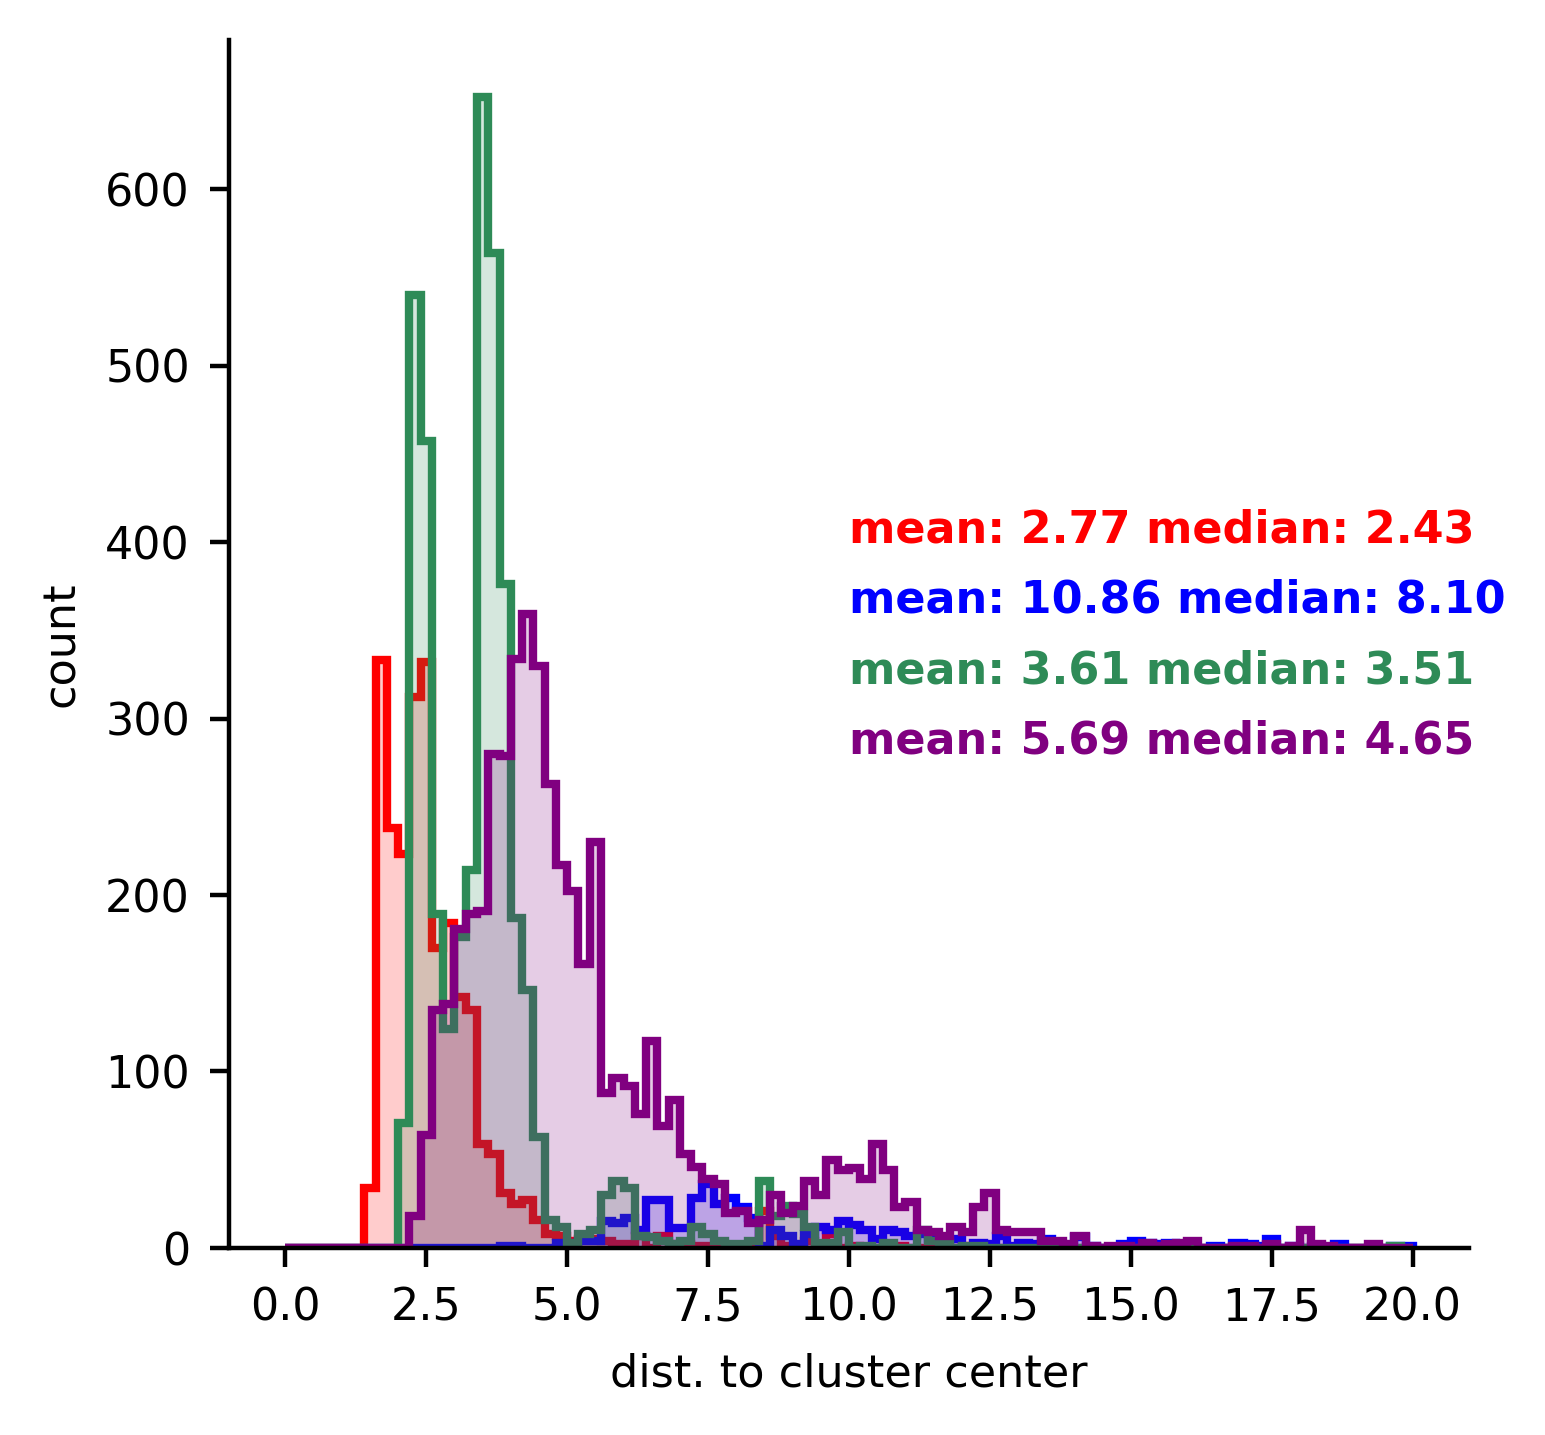
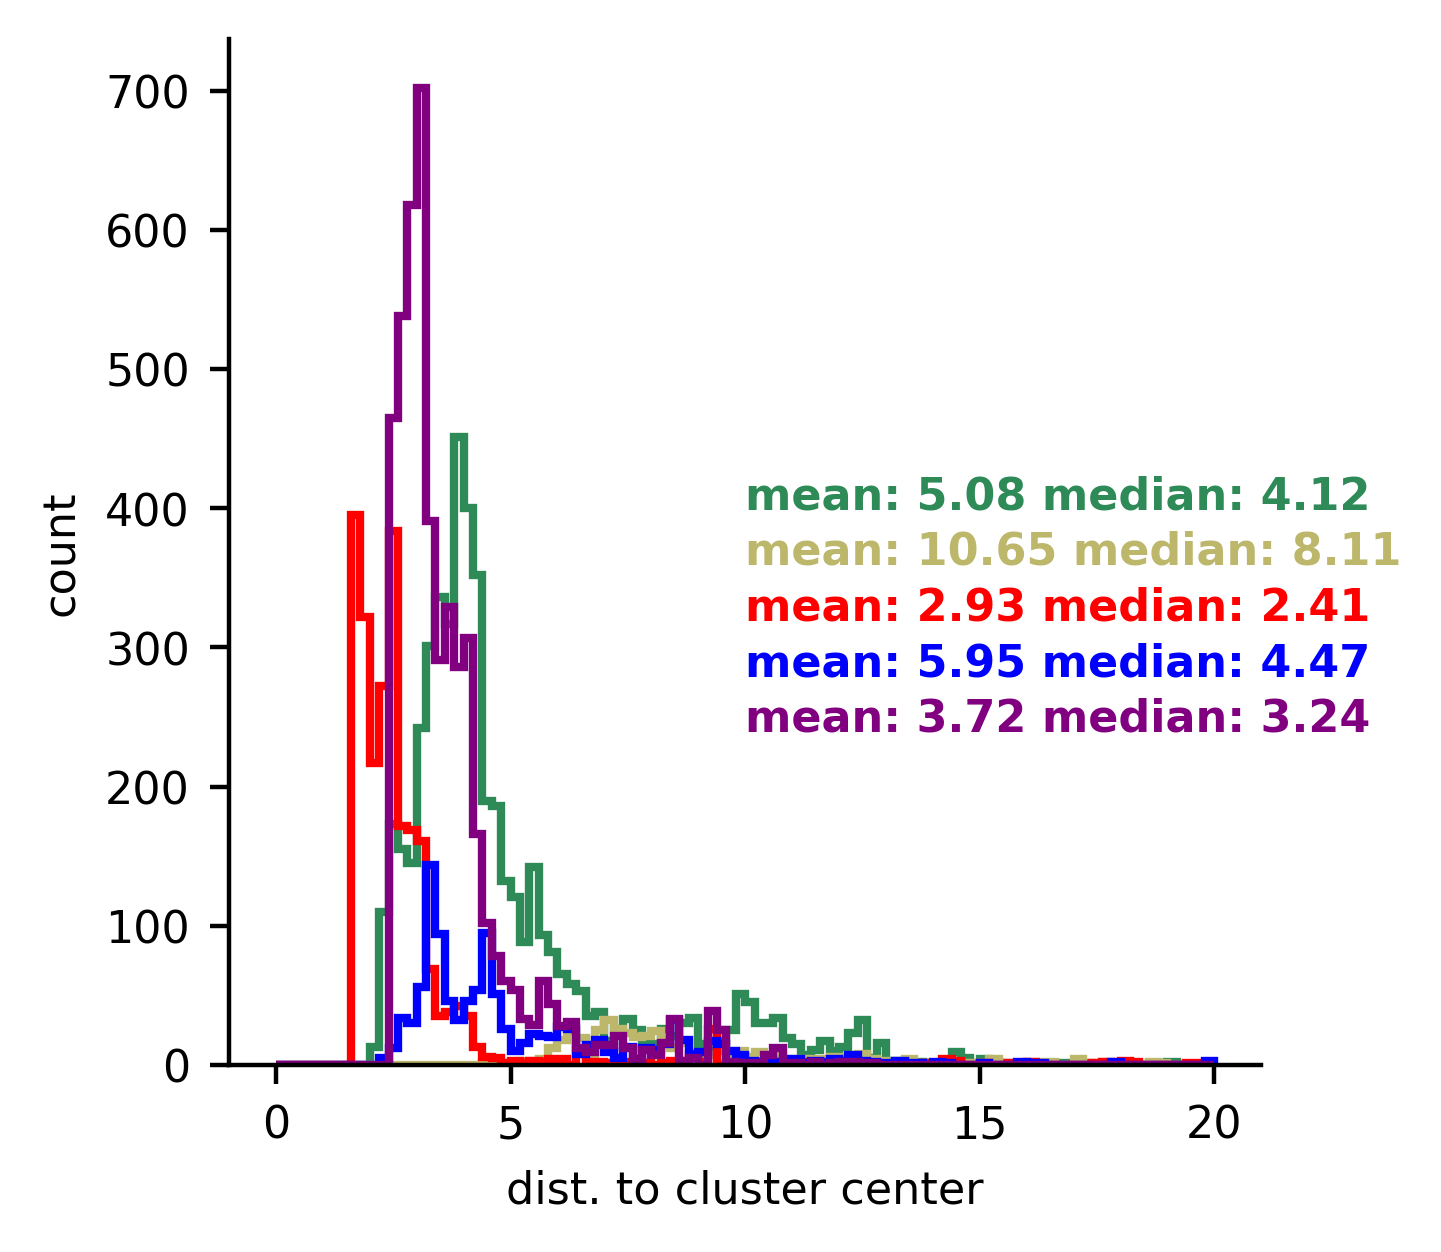
did some clustering analysis

Changed region(s): [[0.0312, 0.0312, 0.9368, 0.9657], [0.4997, 0.3427, 0.9681, 0.5919]]

diff --git a/analysis/clustering_analysis.py b/analysis/clustering_analysis.py
@@ -1,0 +1,231 @@
+#!/Library/Frameworks/Python.framework/Versions/3.8/bin/python3
+#!/usr/local/Cellar/python@3.9/3.9.1_6/bin/python3
+from numpy import array, arange, median, mean, abs
+from numpy.linalg import norm
+from pickle import load
+from matplotlib import pyplot as plt
+from matplotlib import rcParams
+from sklearn.decomposition import PCA
+
+from C3SData.data import C3SD
+
+rcParams['font.size'] = 8
+
+
+# load the trained predictive model (to use its internal KMeans classifier)
+with open('kmcm_svr_final_20210414.pickle', 'rb') as pf:
+    kmc = load(pf)
+
+
+# load the dataset
+data = C3SD('C3S.db', seed=2345)
+data.featurize()
+data.train_test_split('ccs')
+data.center_and_scale()
+
+
+# compute cluster assignments and distances
+X_clusters = array([kmc.kmeans_.predict(x.reshape(1, -1))[0] for x in data.SScaler_.transform(data.X_)])
+print('number of compounds in each cluster:', [len([l for l in kmc.kmeans_.labels_ if l == n]) for n in range(5)])
+
+
+# compute cluster distance distributions
+cluster_dists = [[], [], [], [], []]
+cluster_dists_combined = []
+for c, x in zip(X_clusters, data.SScaler_.transform(data.X_)):
+    cluster_dists[c].append(norm(x - kmc.kmeans_.cluster_centers_[c]))
+    cluster_dists_combined.append(norm(x - kmc.kmeans_.cluster_centers_[c]))
+cluster_dists_combined = array(cluster_dists_combined)
+fig = plt.figure(figsize=(3.33, 3.33))
+ax = fig.add_subplot(111)
+bins = arange(0, 20.001, 0.2)
+y0 = 400
+for cd, c in zip(cluster_dists, ['seagreen', 'darkkhaki', 'r', 'b', 'purple']):
+    #plt.hist(cd, bins=bins, histtype='stepfilled', color=c, alpha=0.2)
+    ax.hist(cd, bins=bins, histtype='step', color=c, lw=1.5)
+    ax.text(10, y0, 'mean: {:.2f} median: {:.2f}'.format(mean(cd), median(cd)), fontweight='bold', fontsize=8, color=c)
+    y0 -= 40
+for d in ['top', 'right']:
+    ax.spines[d].set_visible(False)
+ax.set_xlabel('dist. to cluster center')
+ax.set_ylabel('count')
+plt.savefig('cluster_distance_distributions.png', dpi=400, bbox_inches='tight')
+plt.close()
+
+
+# plot cluster center distance against prediction error
+X_scaled = data.SScaler_.transform(data.X_)
+y_true = data.y_
+percent_error = abs(100. * (kmc.predict(X_scaled) - y_true) / y_true)
+fig = plt.figure(figsize=(3.33, 3.33))
+ax = fig.add_subplot(111)
+ax.scatter(cluster_dists_combined, percent_error, s=0.5, alpha=0.2, c='k', edgecolors='none')
+for d in ['top', 'right']:
+    ax.spines[d].set_visible(False)
+ax.set_ylim([-0.05, 10])
+ax.set_yticks([_ for _ in range(11)])
+ax.set_xlim([0, 30])
+ax.set_xlabel('dist. to cluster center')
+ax.set_ylabel('abs. prediction error (%)')
+plt.savefig('cluster_distance_vs_error.png', dpi=400, bbox_inches='tight')
+plt.close()
+
+# plot cluster center distance against prediction error (normalize distances by individual cluster medians)
+dist_medians = array([[4.12, 8.11, 2.41, 4.47, 3.24][_] for _ in kmc.kmeans_.predict(X_scaled)])
+fig = plt.figure(figsize=(3.33, 3.33))
+ax = fig.add_subplot(111)
+ax.scatter(cluster_dists_combined / dist_medians, percent_error, s=0.5, alpha=0.2, c='k', edgecolors='none')
+for d in ['top', 'right']:
+    ax.spines[d].set_visible(False)
+ax.set_ylim([-0.05, 10])
+ax.set_yticks([_ for _ in range(11)])
+ax.set_xlim([0, 5])
+ax.set_xlabel('dist. to cluster center (normalized)')
+ax.set_ylabel('abs. prediction error (%)')
+plt.savefig('cluster_distance_vs_error_normalized.png', dpi=400, bbox_inches='tight')
+plt.close()
+
+
+# plot distance from database center against prediction error
+center = array([mean(_) for _ in X_scaled.T])
+center_dists = array([norm(_ - center) for _ in X_scaled])
+fig = plt.figure(figsize=(3.33, 3.33))
+ax = fig.add_subplot(111)
+ax.scatter(center_dists, percent_error, s=0.5, alpha=0.2, c='k', edgecolors='none')
+for d in ['top', 'right']:
+    ax.spines[d].set_visible(False)
+ax.set_ylim([-0.05, 10])
+ax.set_yticks([_ for _ in range(11)])
+ax.set_xlim([0, 20])
+ax.set_xlabel('dist. to center')
+ax.set_ylabel('abs. prediction error (%)')
+plt.savefig('center_distance_vs_error.png', dpi=400, bbox_inches='tight')
+plt.close()
+
+
+# cluster distance matrix
+dmat = [[0, 0, 0, 0, 0], [0, 0, 0, 0, 0], [0, 0, 0, 0, 0], [0, 0, 0, 0, 0], [0, 0, 0, 0, 0]]
+for i in range(5):
+    for j in range(5):
+        dmat[i][j] = norm(kmc.kmeans_.cluster_centers_[i] - kmc.kmeans_.cluster_centers_[j])
+print('     c0    c1    c2    c3    c4')
+print('c0 {:4.1f}  {:4.1f}  {:4.1f}  {:4.1f}  {:4.1f}'.format(dmat[0][0], dmat[0][1], dmat[0][2], dmat[0][3], dmat[0][4]))
+print('c1       {:4.1f}  {:4.1f}  {:4.1f}  {:4.1f}'.format(dmat[1][1], dmat[1][2], dmat[1][3], dmat[1][4]))
+print('c2             {:4.1f}  {:4.1f}  {:4.1f}'.format(dmat[2][2], dmat[2][3], dmat[2][4]))
+print('c3                   {:4.1f}  {:4.1f}'.format(dmat[3][3], dmat[3][4]))
+print('c4                         {:4.1f}'.format(dmat[4][4]))
+
+
+# compute a 3-component PCA on the complete database using the full feature set
+# use the StandardScaler to center and scale the data first
+pca = PCA(n_components=0.95, svd_solver='full')
+projections = pca.fit_transform(X_scaled).T
+evr = pca.explained_variance_ratio_
+
+
+# plot PC1 projection against prediction error
+fig = plt.figure(figsize=(3.33, 3.33))
+ax = fig.add_subplot(111)
+ax.scatter(abs(projections[0]), percent_error, s=0.5, alpha=0.2, c='k', edgecolors='none')
+for d in ['top', 'right']:
+    ax.spines[d].set_visible(False)
+ax.set_ylim([-0.05, 10])
+ax.set_yticks([_ for _ in range(11)])
+ax.set_xlim([0, 10])
+ax.set_xlabel('abs. PC1 projection')
+ax.set_ylabel('abs. prediction error (%)')
+plt.savefig('PC1_vs_error.png', dpi=400, bbox_inches='tight')
+plt.close()
+
+
+# plot PC2 projection against prediction error
+fig = plt.figure(figsize=(3.33, 3.33))
+ax = fig.add_subplot(111)
+ax.scatter(abs(projections[1]), percent_error, s=0.5, alpha=0.2, c='k', edgecolors='none')
+for d in ['top', 'right']:
+    ax.spines[d].set_visible(False)
+ax.set_ylim([-0.05, 10])
+ax.set_yticks([_ for _ in range(11)])
+ax.set_xlim([0, 10])
+ax.set_xlabel('abs. PC2 projection')
+ax.set_ylabel('abs. prediction error (%)')
+plt.savefig('PC2_vs_error.png', dpi=400, bbox_inches='tight')
+plt.close()
+
+
+# plot PC3 projection against prediction error
+fig = plt.figure(figsize=(3.33, 3.33))
+ax = fig.add_subplot(111)
+ax.scatter(abs(projections[2]), percent_error, s=0.5, alpha=0.2, c='k', edgecolors='none')
+for d in ['top', 'right']:
+    ax.spines[d].set_visible(False)
+ax.set_ylim([-0.05, 10])
+ax.set_yticks([_ for _ in range(11)])
+ax.set_xlim([0, 10])
+ax.set_xlabel('abs. PC3 projection')
+ax.set_ylabel('abs. prediction error (%)')
+plt.savefig('PC3_vs_error.png', dpi=400, bbox_inches='tight')
+plt.close()
+
+
+cluster_center_pcs = [pca.transform([_])[0] for _ in kmc.kmeans_.cluster_centers_]
+lab_to_c = ['seagreen', 'darkkhaki', 'r', 'b', 'purple']
+c = [lab_to_c[_] for _ in kmc.kmeans_.predict(X_scaled)]
+lab = [_ for _ in lab_to_c]
+
+
+def pca_proj(pcA_n, pcB_n):
+    pcA, pcB = projections[pcA_n - 1], projections[pcB_n - 1]
+    pcA_evr, pcB_evr = evr[pcA_n - 1], evr[pcB_n - 1]
+    fig = plt.figure(figsize=(3.33, 3.33))
+    ax2 = fig.add_subplot(111)
+    # PC A vs. PC B
+    ax2.axvline(0, c='k', ls='--', lw=0.5)
+    ax2.axhline(0, c='k', ls='--', lw=0.5)
+    ax2.scatter(pcA, pcB, c=c, s=1, alpha=0.4, edgecolors='none')
+    for d in ['top', 'left', 'bottom', 'right']:
+        ax2.spines[d].set_visible(False)
+    ax2.set_xlabel('PC{} ({:.1f} %)'.format(pcA_n, pcA_evr * 100))
+    ax2.set_ylabel('PC{} ({:.1f} %)'.format(pcB_n, pcB_evr * 100))
+    # add the cluster center projections onto the plots
+    for i in range(5):
+        cpA = cluster_center_pcs[i][pcA_n - 1]
+        cpB = cluster_center_pcs[i][pcB_n - 1]
+        ax2.scatter(cpA, cpB, c=lab_to_c[i], s=12, edgecolors='k', linewidths=0.7)
+    plt.tight_layout()
+    plt.savefig('KMC_cluster_PC{}{}_projections.png'.format(pcA_n, pcB_n), dpi=400, bbox_inches='tight')
+    plt.close()
+
+
+pca_proj(1, 2)
+pca_proj(2, 3)
+pca_proj(3, 4)
+
+
+# plot m/z vs. CCS
+fig = plt.figure(figsize=(3.33, 3.33))
+ax = fig.add_subplot(111)
+ccs_by_cluster = [[], [], [], [], []]
+for l, cc in zip(kmc.kmeans_.labels_, data.ccs_):
+    ccs_by_cluster[l].append(cc)
+mean_cluster_ccs = [mean(_) for _ in ccs_by_cluster]
+print(mean_cluster_ccs)
+mz_by_cluster = [[], [], [], [], []]
+for l, m in zip(kmc.kmeans_.labels_, data.mz_):
+    mz_by_cluster[l].append(m)
+mean_cluster_mz = [mean(_) for _ in mz_by_cluster]
+print(mean_cluster_mz)
+ax.scatter(data.mz_, data.ccs_, c=c, s=1, alpha=0.2, edgecolors='none')
+for d in ['top', 'right']:
+    ax.spines[d].set_visible(False)
+ax.set_xlabel('m/z')
+ax.set_ylabel(r'CCS (Å$^2$)')
+ax.set_ylim([100, 380])
+ax.set_xlim([50, 1200])
+# add the cluster center projections onto the plots
+for i in range(5):
+    ax.scatter(mean_cluster_mz[i], mean_cluster_ccs[i],
+               c=lab_to_c[i], s=16, edgecolors='k', linewidths=0.75)
+plt.tight_layout()
+plt.savefig('KMC_cluster_mz_v_ccs.png', dpi=400, bbox_inches='tight')
+plt.close()

diff --git a/analysis/train_final_model.py b/analysis/train_final_model.py
@@ -117,7 +117,7 @@ def main(tstamp):
     data.featurize()
     data.train_test_split('ccs')
     data.center_and_scale()
-    kmcm_svr_p_grid = kmcm_p_grid([4, 5], {'C': [1000, 3000], 'gamma': [0.0001, 0.001]})
+    kmcm_svr_p_grid = kmcm_p_grid([5], {'C': [100, 1000], 'gamma': [0.001, 0.01]})
     kmcm_svr_gs = GridSearchCV(KMCMulti(seed=2345, use_estimator=SVR(cache_size=2048, tol=5e-4)),
                                param_grid=kmcm_svr_p_grid, n_jobs=-1, cv=5, scoring='neg_mean_squared_error')
     kmcm_svr_gs.fit(data.X_train_ss_, data.y_train_)
